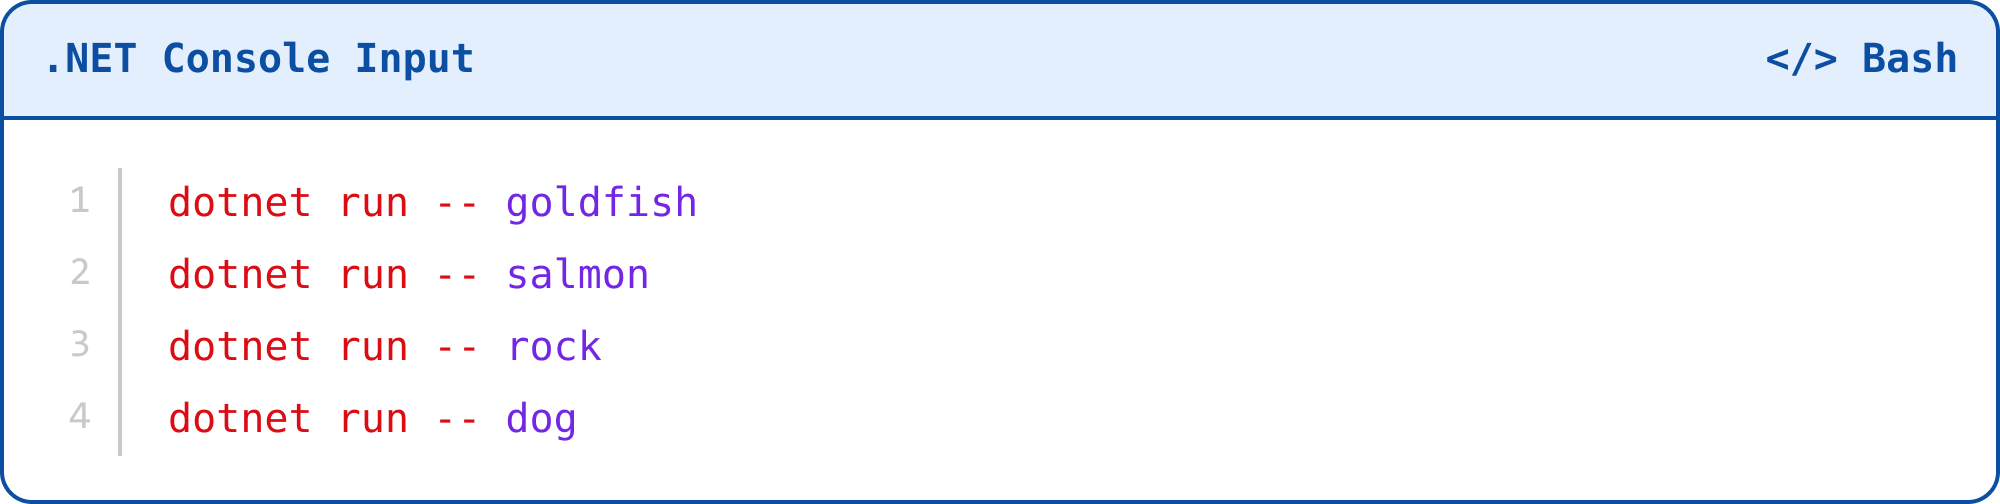
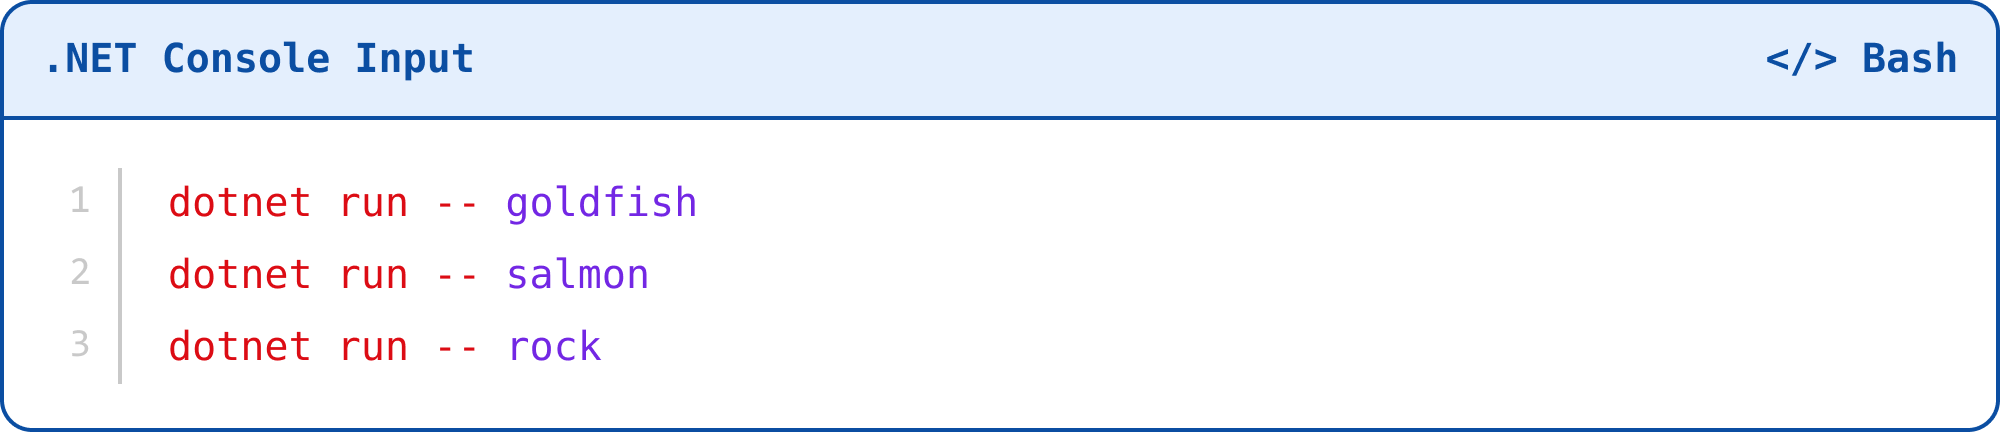
Appendix C Project 1: build step, run/output images match real output, README build command

diff --git a/book/appendices/appendix-c.md b/book/appendices/appendix-c.md
@@ -36,23 +36,29 @@ The valid and invalid candidates appear in separate object diagrams. Figure C-2 
 
 <p align="center"><ins>Figure C-4. Rock UML Object Diagram (Invalid Fish)</ins></p>
 
-In Project 1, the code evaluates a specific candidate passed as a command-line argument. This makes the admissibility test explicit. The system does not switch between an abstract valid mode and invalid mode. It evaluates whether a given candidate satisfies the admissibility conditions of Fish. The README for Project 1 provides the canonical run commands and expected outputs. When you execute the C# code with the following commands:
+In Project 1, the code evaluates a specific candidate passed as a command-line argument. This makes the admissibility test explicit. The system does not switch between an abstract valid mode and invalid mode. It evaluates whether a given candidate satisfies the admissibility conditions of Fish. The README for Project 1 provides the canonical run commands and expected outputs. After navigating to the folder containing the project, build it:
+
+<img src="../../assets/figures/appendix-c/figure-05-build.png" alt="Console command: dotnet build" />
+
+<p align="center"><ins>Project 1 Build Command</ins></p>
+
+Then run it with the following commands:
 
 <img src="../../assets/figures/appendix-c/figure-05.png" />
 
 <p align="center"><ins>Project 1 Run Commands</ins></p>
 
+You get a valid response for the first two object diagrams; for example, when you pass goldfish as an input parameter:
+
 <img src="../../assets/figures/appendix-c/figure-06.png" />
 
 <p align="center"><ins>Project 1 Valid Output</ins></p>
 
+However, you get an invalid response when you pass rock as the input parameter:
+
 <img src="../../assets/figures/appendix-c/figure-07.png" />
 
-<p align="center"><ins>Project 1 invalid Output</ins></p>
-
-You get a valid response for the first two object diagrams; for example, when you pass goldfish as an input parameter:
-
-However, you get an invalid response when you pass rock as the input parameter:
+<p align="center"><ins>Project 1 Invalid Output</ins></p>
 
 This behavior demonstrates that identity conditions operate upstream of all other processes. They constrain the space of possible instances before any goal-based filtering or contextual interpretation occurs. Project 1 therefore establishes the first architectural claim: identity conditions define admissibility and constrain what can count as an instance in the first place.
 

diff --git a/code/appendix-c/project-1/README.md b/code/appendix-c/project-1/README.md
@@ -2,12 +2,18 @@ Instructions for general environment setup can be found in: *How to Run the Code
 
 This README is the canonical source for the exact commands and expected outputs for Appendix C, Project 1.
 
-## Run Commands
+## Build Command
 
-Run from inside the `Project_1` folder.
+Run from inside the `project-1` folder.
 
 ```bash
 cd .\IdentityLayerDemo\
+dotnet build
+```
+
+## Run Commands
+
+```bash
 dotnet run -- goldfish
 ```
 
